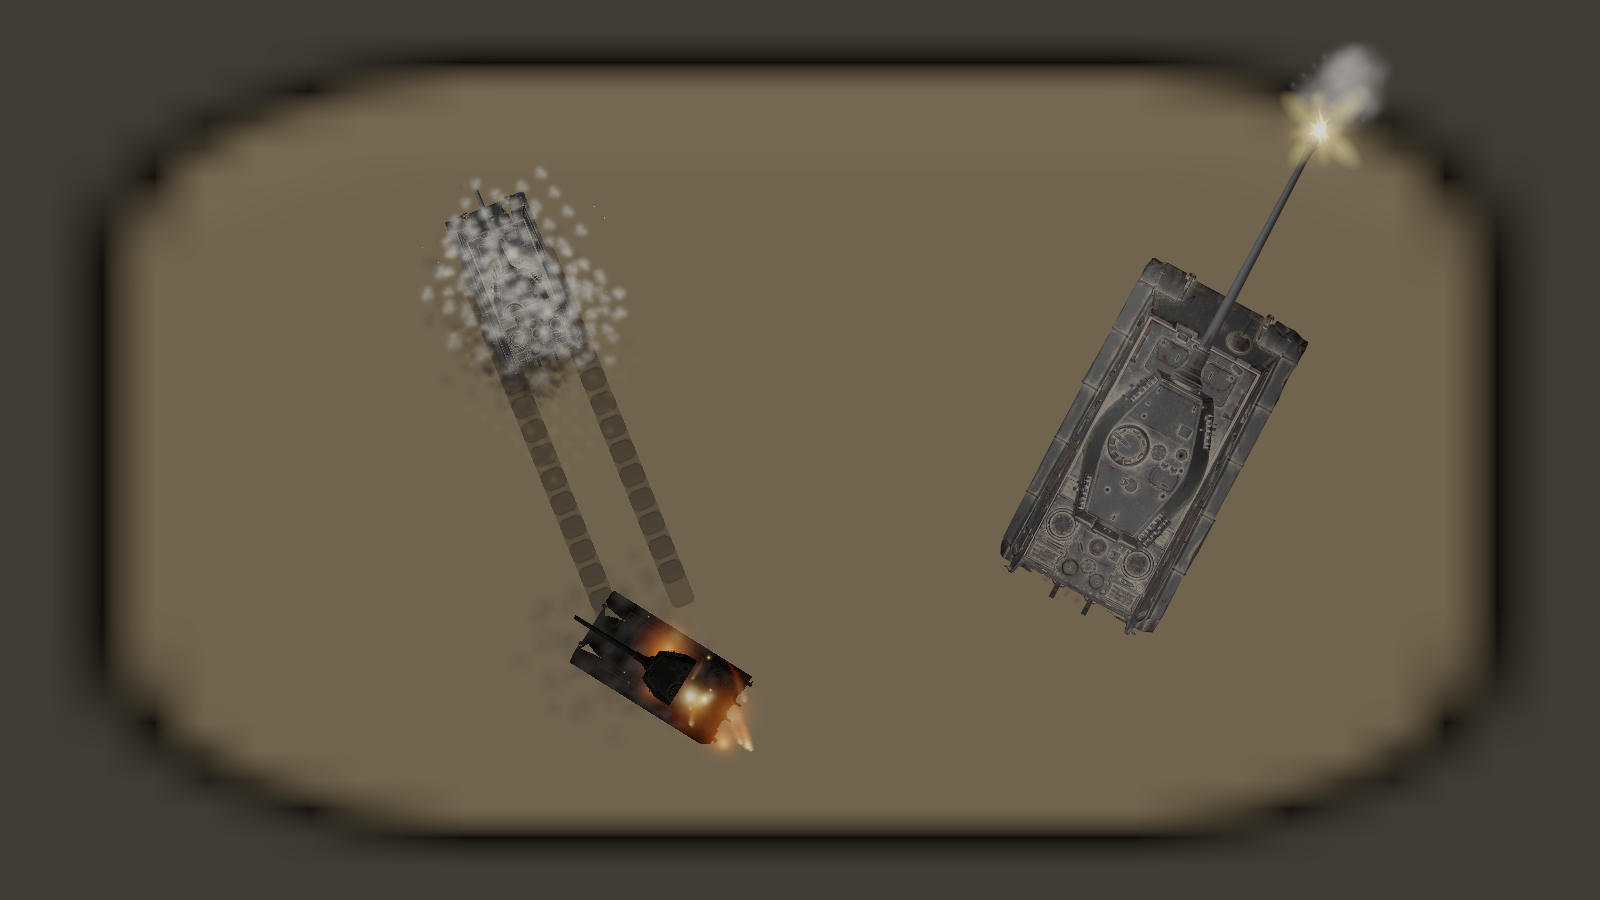
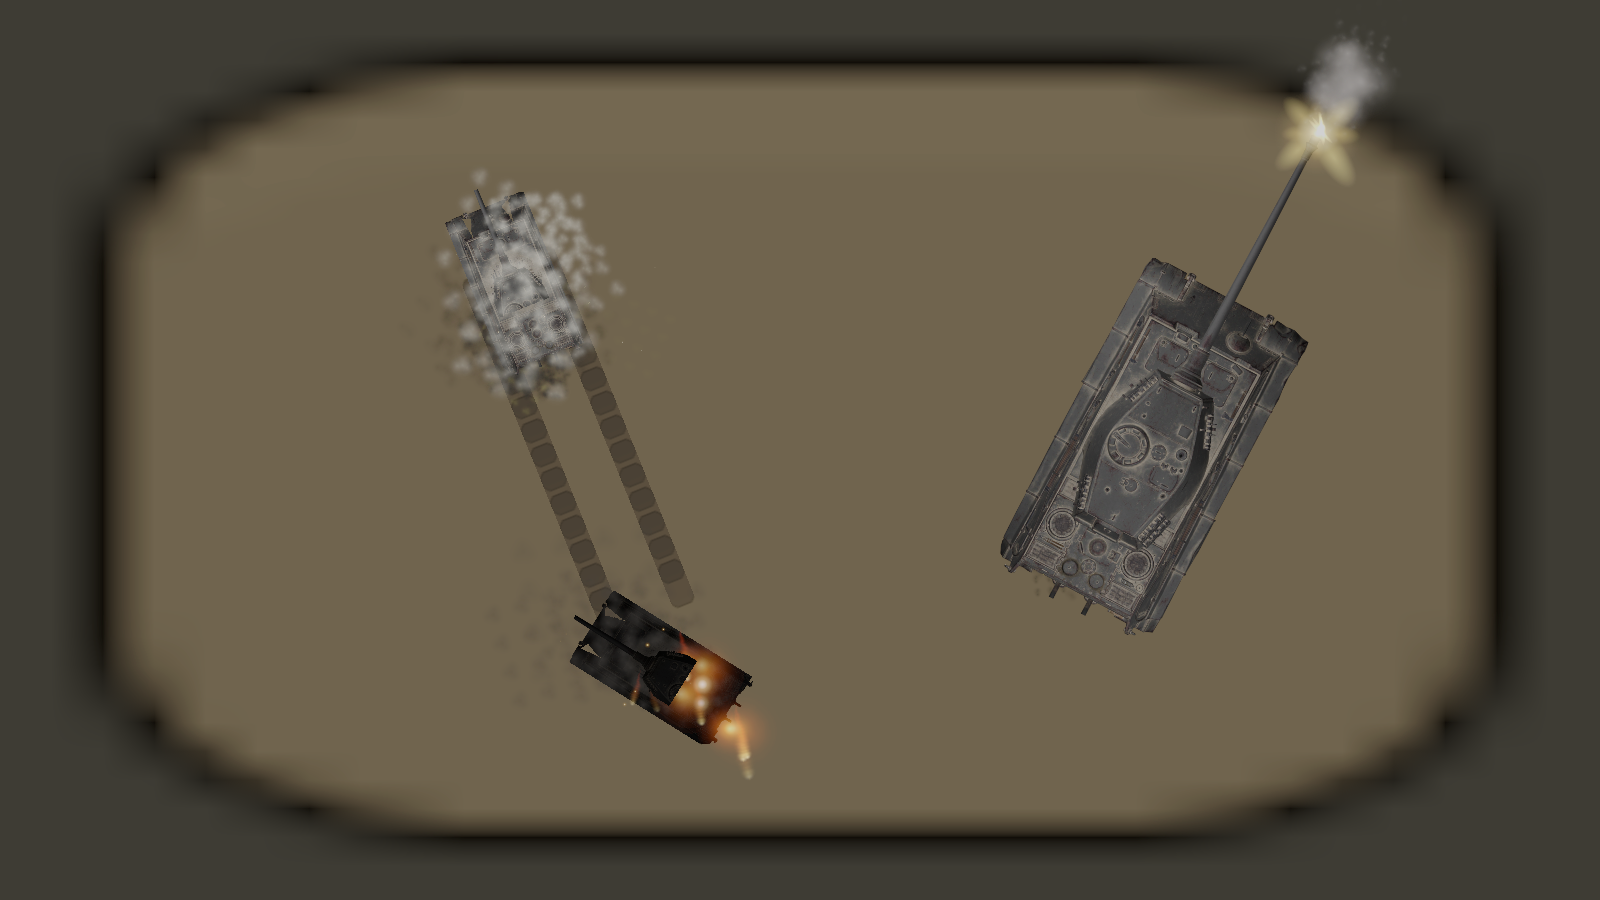
fix(vfx): a light must be switched with its effect, not with its emission
Opening a battle showed the whole map glowing with nothing visible in it. The cause
was mine: the fire's light lives in the fire prefab, and the rig only switched the
particle emission, so every undamaged machine kept a burning light on it and bloom
spread it across the map.

The rig now collects the lights of a generated effect and switches them with the
same state as the fire, so a machine that is not burning lights nothing. The rule is
recorded in ADR-066: a light is not a particle, and switching emission off leaves it
shining.

The values were also tuned against a single frame and were too strong on a real map:
the flash light goes from 1.7 to 1.1 with a radius of 2.2, the fire light from 1.7 to
0.8 with a radius of 2.4, and bloom from 0.85 to 0.45 at the same threshold, because
the lights were pushing the ground past the threshold and bloom did the rest.

Verification: 15 of 15 effect tests in Play Mode; the frame's mean brightness is back
to 79.6 and the proof image shows a warm pool only around the flash and the burning
wreck, with nothing around the two undamaged machines.

diff --git a/Assets/Game/Runtime/TankVfxRig.cs b/Assets/Game/Runtime/TankVfxRig.cs
@@ -1,4 +1,5 @@
 using UnityEngine;
+using UnityEngine.Rendering.Universal;
 
 namespace LocalTanks
 {
@@ -62,6 +63,13 @@ namespace LocalTanks
         private ParticleSystem[] rightSpray;
         private ParticleSystem[] damageSmoke;
         private ParticleSystem[] damageFire;
+
+        /// <summary>
+        /// The lights the fire prefab carries. A light is not a particle: switching emission off leaves
+        /// it shining, and a machine that is not burning must not light the map, so it is switched with
+        /// the fire itself.
+        /// </summary>
+        private Light2D[] fireLights = System.Array.Empty<Light2D>();
         private ParticleSystem[] exhaust;
         private ParticleSystem[] barrelSmoke;
         private Transform exhaustAnchor;
@@ -218,6 +226,7 @@ namespace LocalTanks
             rightSpray = AttachLoop(provider, CombatVfxEffects.WaterSpray, "VfxSprayRight", halfTrackOffset, RearOffset());
             damageSmoke = AttachLoop(provider, CombatVfxEffects.DamageSmoke, "VfxDamageSmoke", hullSize.x * 0.12f, -hullSize.y * 0.26f);
             damageFire = AttachLoop(provider, CombatVfxEffects.DamageFire, "VfxDamageFire", -hullSize.x * 0.18f, -hullSize.y * 0.2f);
+            fireLights = CollectLights(damageFire);
             exhaust = AttachExhaust(provider);
             barrelSmoke = AttachBarrelSmoke(provider);
 
@@ -517,6 +526,7 @@ namespace LocalTanks
             SetEmission(exhaust, 0f);
             SetEmission(damageSmoke, 0f);
             SetEmissionEnabled(damageFire, false);
+            SetLightsEnabled(fireLights, false);
             SetEmission(barrelSmoke, 0f);
         }
 
@@ -585,6 +595,7 @@ namespace LocalTanks
             // smokes, and fire is what tells the player that this machine is finished. The layered rates
             // belong to the generated prefab, so the rig only opens and closes the fire.
             SetEmissionEnabled(damageFire, profile.fire);
+            SetLightsEnabled(fireLights, profile.fire);
         }
 
         private void Subscribe()
@@ -754,6 +765,31 @@ namespace LocalTanks
                 ParticleSystem.EmissionModule emission = system.emission;
                 emission.rateOverTime = Mathf.Max(0f, rate);
                 emission.enabled = rate > 0.01f;
+            }
+        }
+
+        /// <summary>The lights inside a generated effect prefab, if it has any.</summary>
+        private static Light2D[] CollectLights(ParticleSystem[] systems)
+        {
+            if (systems == null || systems.Length == 0)
+            {
+                return System.Array.Empty<Light2D>();
+            }
+
+            Transform root = systems[0].transform.parent;
+            return root != null
+                ? root.GetComponentsInChildren<Light2D>(true)
+                : System.Array.Empty<Light2D>();
+        }
+
+        private static void SetLightsEnabled(Light2D[] lights, bool enabled)
+        {
+            foreach (Light2D light in lights)
+            {
+                if (light != null)
+                {
+                    light.enabled = enabled;
+                }
             }
         }
 

diff --git a/Assets/Game/Editor/CombatVfxAssetBuilder.cs b/Assets/Game/Editor/CombatVfxAssetBuilder.cs
@@ -460,7 +460,7 @@ namespace LocalTanks.Editor
             SetHotColor(spikes, 3.4f, 2.9f, 2f);
             // Warm and short: the light follows the burst, and the pool switches the whole instance off
             // when the flash is over, so the light is brief without any code to fade it.
-            AddLight(root, "FlashLight", new Color(1f, 0.74f, 0.42f), 1.7f, 0.08f, 2.6f, 0.55f);
+            AddLight(root, "FlashLight", new Color(1f, 0.74f, 0.42f), 1.1f, 0.08f, 2.2f, 0.6f);
             SetBurst(spikes, 5);
             // Spikes leave the bore, so their spread along the barrel is narrow and their side spread tiny.
             SetPlanarVelocity(spikes, -0.25f, 0.25f, 1.2f, 2.6f);
@@ -619,7 +619,7 @@ namespace LocalTanks.Editor
             // A wreck lights its own surroundings for as long as it burns, which is what makes a burning
             // machine visible from across the map and what turns the fire into something in the world
             // rather than a picture drawn on top of it.
-            AddLight(root, "FireLight", new Color(1f, 0.52f, 0.2f), 1.7f, 0.25f, 3.4f, 0.45f);
+            AddLight(root, "FireLight", new Color(1f, 0.52f, 0.2f), 0.8f, 0.25f, 2.4f, 0.5f);
         }
 
         /// <summary>

diff --git a/Assets/Game/Editor/CombatVfxGlowSetup.cs b/Assets/Game/Editor/CombatVfxGlowSetup.cs
@@ -36,7 +36,7 @@ namespace LocalTanks.Editor
         /// </summary>
         public const float BloomThreshold = 1.05f;
 
-        public const float BloomIntensity = 0.85f;
+        public const float BloomIntensity = 0.45f;
         public const float BloomScatter = 0.55f;
 
         /// <summary>Name of the root object that carries the scene's global light.</summary>

diff --git a/Docs/DECISIONS.md b/Docs/DECISIONS.md
@@ -357,4 +357,4 @@
 
 Причина: свет делает выстрел событием в мире, а не картинкой поверх него — корпус и грунт на мгновение светлеют. Живёт он в префабе, потому что пул эффектов **гасит инстанс целиком**, когда время жизни истекло: свет вспышки гаснет ровно вместе с ней без единой строки кода на затухание, а свет горящего остова остаётся, пока тот горит, потому что огонь — циклический эффект машины. Точечный свет обязан использовать аддитивный стиль: в умножающем он не добавлял бы свет, а умножал сцену к чёрному. Глобальный свет нужен явно, чтобы у точечных был освещённый фон, и он умножает сцену на единицу, то есть сам по себе вида не меняет — проверено измерением: средняя яркость кадра до и после отличается на 0,2%.
 
-Правила: свет эффекта задаётся в его префабе и использует аддитивный стиль смешивания; для точечных источников обязателен явный глобальный свет в сцене; новый свет проверяется кадром и измерением яркости вокруг источника, а не только глазами; если сцена боя пересобирается генератором, глобальный свет нужно вернуть той же командой, что и пост-обработку.
+Правила: **свет гасится вместе с эффектом, а не вместе с его эмиссией** — свет не частица, выключение эмиссии оставляет его гореть, и машина, которая не горит, не должна освещать карту (первая версия именно на этом и провалилась: свет пожара горел на каждой целой машине, а bloom разносил его по всей карте); свет эффекта задаётся в его префабе и использует аддитивный стиль смешивания; для точечных источников обязателен явный глобальный свет в сцене; новый свет проверяется кадром и измерением яркости вокруг источника, а не только глазами; если сцена боя пересобирается генератором, глобальный свет нужно вернуть той же командой, что и пост-обработку.

diff --git a/Docs/CHANGELOG.md b/Docs/CHANGELOG.md
@@ -2,6 +2,12 @@
 
 Все существенные изменения проекта фиксируются здесь после завершения задачи.
 
+## 2026-10-13 — Исправлено: свет пожара горел на каждой машине
+
+- **Найдена причина «всё светится, ничего не видно».** Свет лежит в префабе огня, а риг включал и выключал только **эмиссию**: свет не частица, поэтому он продолжал гореть на каждой целой машине, а bloom с порогом чуть выше белого разносил его по всей карте. Игрок видел два огромных светлых пятна вместо боя.
+- **Свет гасится вместе с эффектом.** Риг собирает источники из префаба и переключает их тем же состоянием, что и огонь: пока машина не горит, света нет. Правило записано в ADR-066 — «свет гасится вместе с эффектом, а не вместе с его эмиссией».
+- **Яркость и радиусы уменьшены, bloom ослаблен.** Вспышка: интенсивность 1,7 → 1,1, радиус 2,6 → 2,2. Пожар: 1,7 → 0,8 и 3,4 → 2,4. Интенсивность bloom 0,85 → 0,45 при том же пороге 1,05: прошлые значения были подобраны по одиночному кадру и на карте оказались чрезмерными.
+- Проверка: кадр-композиция, замер яркости вокруг целой машины и вокруг остова, PlayMode по эффектам.
 ## 2026-10-13 — Стадия 2 реалистичности: вспышка и пожар освещают мир
 
 - **Вспышка выстрела несёт точечный `Light2D`.** Тёплый, аддитивного стиля смешивания, радиус 2,6: корпус и грунт на мгновение светлеют, и выстрел перестаёт быть только нарисованным пятном. Затухание не написано ни строкой кода: пул эффектов гасит инстанс целиком, когда время жизни вспышки истекло, и свет уходит вместе с ней.
